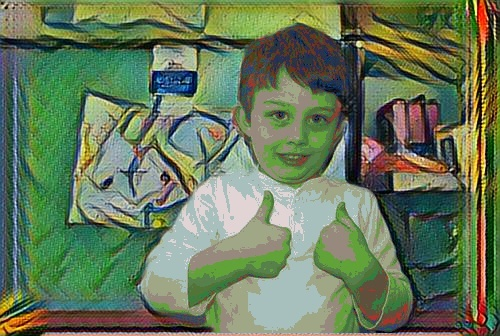
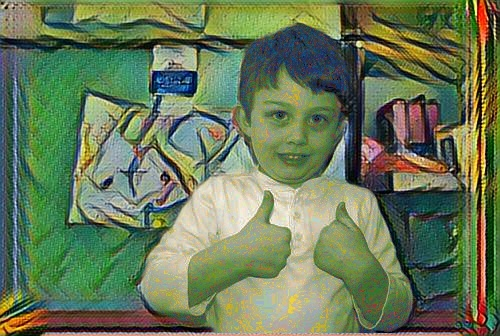
updated gong1203

Changed region(s): [[0.27, 0.0595, 0.84, 1.0]]

diff --git a/combine.py b/combine.py
@@ -331,10 +331,11 @@ def color_transfer(img_path, style_image_path, style_data_path, output_path):
     bucket_count = {}
     for i in range(mImg):
         for j in range(nImg):
-            bucket = int(rgb_to_lab(img[i, j]).dot(qImg) * 10)
+            bucket = int(rgb_to_lab(img[i, j]).dot(qImg) * 10000)
             bucketImg[i, j] = bucket
             bucket_count.setdefault(bucket, 0)
             bucket_count[bucket] += 1
+    
     curr = 0
     bucket_mapping = {}
     sorted_buckets = sorted(bucket_count.keys())
@@ -374,5 +375,5 @@ if __name__ == '__main__':
 
             color_transfer("%s/%s.%s"%(SAMPLE_PATH, image_name, image_suffix), "%s/%s.jpg"%(STYLE_IMAGE_PATH, style), "%s/%s.txt"%(STYLE_DATA_PATH, style), "%s/%s_%s.%s"%(GLOBAL_COLOR_TRANSFER_PATH, image_name, style, image_suffix))
             blend_img = blend_images(fg_path="%s/%s_%s.%s"%(GLOBAL_COLOR_TRANSFER_PATH, image_name, style, image_suffix), bg_path="%s/%s_%s.%s"%(GLOBAL_STYLE_TRANSFER_PATH, image_name, style, image_suffix), mask=bin_mask)
-
+            
             cv2.imwrite("%s/blend_%s_%s.%s"%(REGION_BASED_STYLE_TRANSFER_PATH, image_name, style, image_suffix), blend_img)
